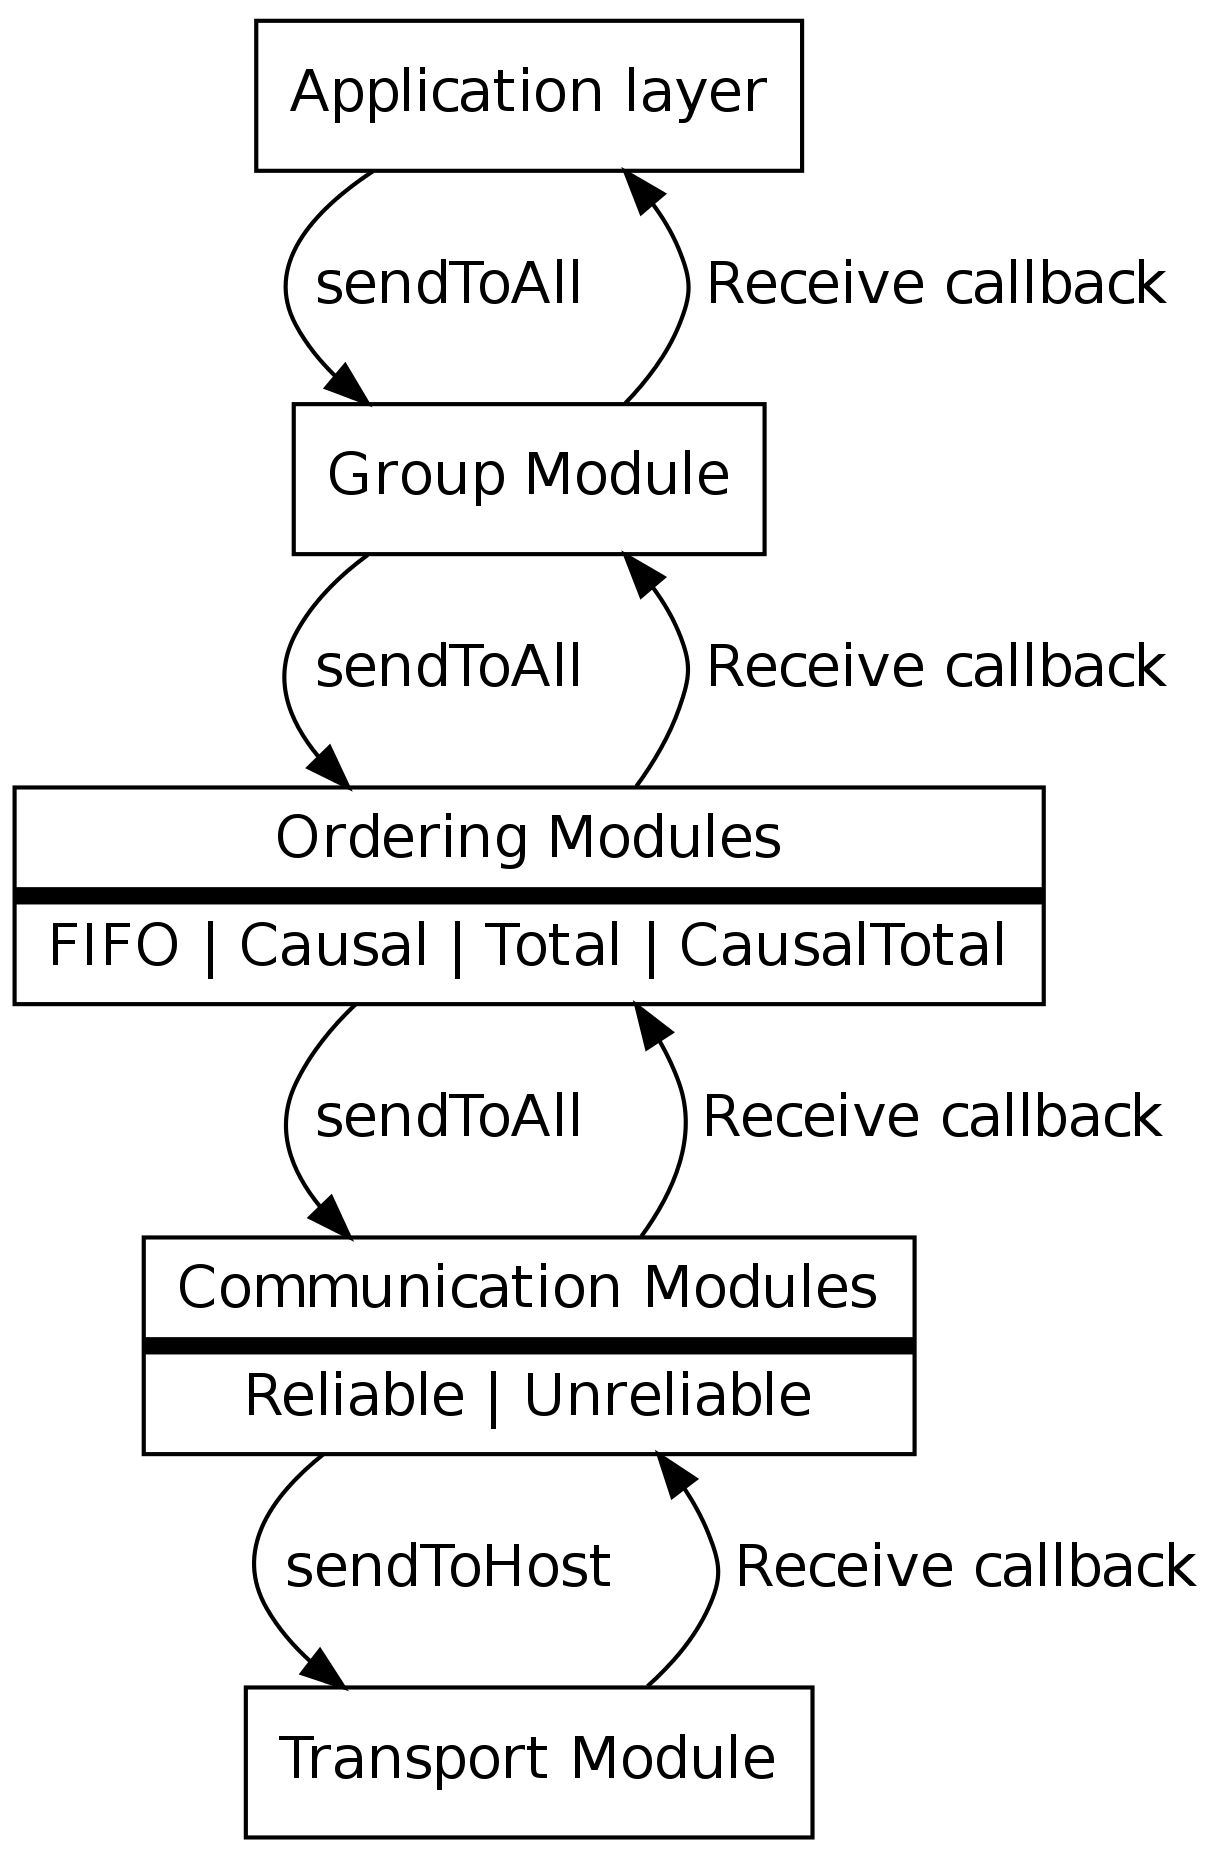
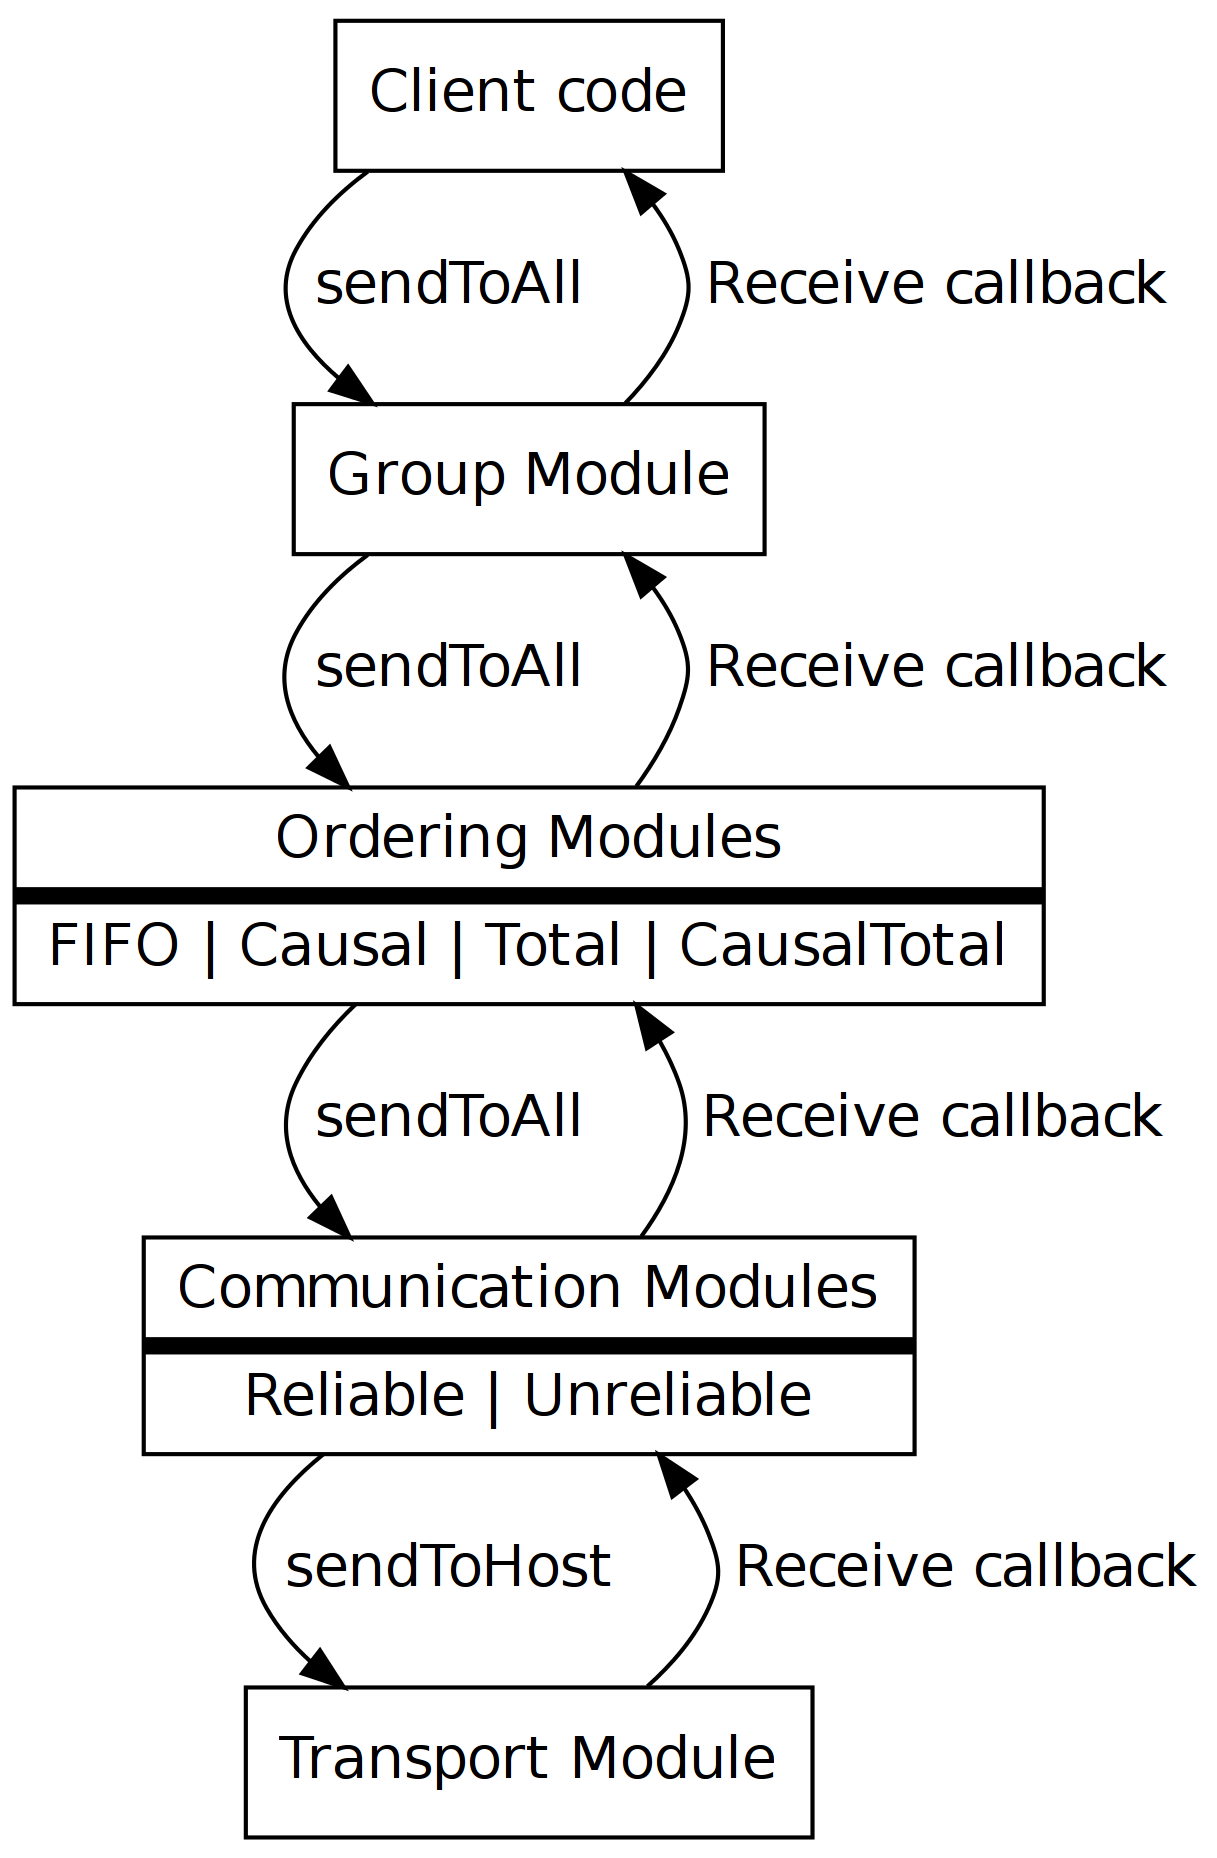
Incorporate more feedback into the report.

diff --git a/report-2/report.tex b/report-2/report.tex
@@ -88,13 +88,12 @@ be found on GitHub under the address
 
 To run the name server, use the following command:
 \begin{center}\texttt{gcom-nameserver [-p PORT]}\end{center}
-
 The name server expects an RMI registry to be running on local host on the port
 \texttt{PORT}.
 
 To run the combined test/debugging application, use the following command:
-\begin{center}\texttt{gcom-client -p PORT -c RELIABILITY -o ORDERING -l NODES NAMESERVER COMMAND}\end{center}
-
+\begin{center}\texttt{gcom-client -p PORT -c RELIABILITY -o ORDERING  -n
+    NAMESERVER -l NUMNODES COMMAND}\end{center}
 Here, \texttt{NAMESERVER} is the address of the name server in the form of a
 \texttt{name:host:port} triple, and the \texttt{COMMAND} parameter is one of
 \texttt{list}, \texttt{kill NAME} or \texttt{join NAME}. The first command lists
@@ -102,10 +101,15 @@ the available groups, the second sends a ``kill'' message to the given group,
 and the third joins a given group and starts the graphical interface. The
 \texttt{-c} option sets the reliability mode (one of \texttt{\{reliable,
   unreliable\}}), and the \texttt{-o} option sets the ordering mode (one of
-\texttt{\{unordered, fifo, causal, total, causaltotal\}}). The \texttt{-l} option
-specifies how many nodes need to have joined before operation starts, if left
-out or zero means dynamic group structure. The \texttt{-p} option has the same
-meaning as for the name server.
+\texttt{\{unordered, fifo, causal, total, causaltotal\}}). The \texttt{-l}
+option is for creating static groups -- it specifies how many nodes need to join
+the group before communication starts; leaving \texttt{-l} out or setting it to
+zero makes the group structure dynamic. The \texttt{-p} option has the same
+meaning as for the name server (port number of the RMI registry).
+
+To save the user from the hassle of having to deal with Java classpath, we also
+provide our own registry executable (\texttt{gcom-registry}) that includes all
+GCom classes inside its JAR.
 
 \section{Requirements Specification}
 
@@ -114,7 +118,7 @@ two bonus levels that give additional points. Our solution implements the Level
 2 specificaton (basic level + dynamic groups).
 
 The GCom middleware consists of three logical modules: communication, message
-ordering and group management. Additionally, we are required to implement a GUI
+ordering and group management. Additionally, we were required to implement a GUI
 test application for showcasing the features of the GCom middleware and a GUI
 debug application for demonstrating that it works correctly.
 
@@ -135,9 +139,9 @@ the textbook\cite{Textbook}). Again, the type of ordering is set at module
 initialisation time. The same callback mechanism for passing control to the next
 layer is used here.
 
-The group management module is the user-facing part of the system implemented on
-top of the previous two modules. It allows to create and remove groups, add and
-remove group members, handles the monitoring of live nodes, keeps track of
+The group management module is the client-facing part of the system implemented
+on top of the previous two modules. It allows to create and remove groups, add
+and remove group members, handles the monitoring of live nodes, keeps track of
 changes in group membership, and allows to list the names of all existing
 groups.
 
@@ -158,7 +162,7 @@ the following features:
 \item Measurement of system performance.
 \end{itemize}
 
-\section{Design}
+\section{System Architecture}
 
 We decided to implement our system in Scala and use Java RMI through Scala
 interop for communication between nodes. The choice of Scala was motivated by
@@ -168,18 +172,42 @@ option (recommended in the assignment specification) and we felt that other
 messaging solutions that we looked at either didn't provide any benefit for our
 use case (Finagle) or did all the required work for us (ZeroMQ).
 
+\begin{figure}[h]
+\centering
+\includegraphics[height=12cm]{graph2}
+\caption{Overview of the system}
+\label{fig:modules}
+\end{figure}
+
+As suggested in the assignment specification, the system is decomposed into
+three layers (see figure~\ref{fig:modules}):
+
+\begin{itemize}
+\item Communication
+\item Message ordering
+\item Group management
+\end{itemize}
+
+Each successive layer does not know anything about the layers above it - for
+example, message ordering only depends on communication, but group management
+uses both communication and message ordering. This improves modularity and
+testability.
+
+\subsection{Communication and message ordering}
+
 The communication module is just a straightforward implementation of the
 textbook algorithms for reliable and unreliable multicast\cite{Textbook}. The
-same can be said about the message ordering module: FIFO ordering will be
-implemented with logical timestamps, vector clocks will be used for the causal
-ordering, total ordering will be implemented with a sequencer node (specified as
-one of the inputs to the send function), and causal-total is just a combination
-of causal and total.
+same can be said about the message ordering module: FIFO ordering is implemented
+with logical timestamps, vector clocks are used for the causal ordering, total
+ordering is implemented with a sequencer node (specified as one of the inputs to
+the send function), and causal-total is just a combination of causal and total.
+
+\subsection{Group management}
 
 \begin{figure}[h]
 \centering
 \includegraphics[width=12cm]{graph1}
-\caption{Group management module.}
+\caption{Communication model used by the group management module.}
 \label{fig:group}
 \end{figure}
 
@@ -187,30 +215,46 @@ The group management module has a slightly more complicated design. Each node is
 identified by a (host, port number, name) triple. A group is identified by its
 name; names are globally unique, which is enforced by the name server that also
 associates an ID of a coordinator node with each group name. The central server
-is used a hub through each new nodes can discover and join existing groups.
+is used as a hub through which new nodes can discover and join existing
+groups. This model is illustrated in figure~\ref{fig:group}.
 
-The coordinator node in each group serves as a message sequencer and gateway
-through which new nodes join the group. The process of joining a group is
-illustrated in figure~\ref{fig:group}. A node first contacts the central server,
-which knows the names of all groups and all coordinator nodes. When a node has
-chosen which group it wants to join, it contacts the coordinator for that group
-and receives the list of all group members. The group members then synchronise
-its view of group membership and the node is considered admitted.
+The coordinator node in each group serves as a gateway through which new nodes
+join the group. To join a group, a node first contacts the central server, which
+knows the names of all groups and all coordinator nodes. When a node has chosen
+which group it wants to join, it contacts the coordinator for that group and
+receives the list of all group members. The group members then synchronise its
+view of group membership and the node is considered admitted.
 
-If the coordinator node dies or leaves the group, a new coordinator is elected,
-and all group members and the central server are notified. The 2-phase commit
-protocol is used to ensure that all nodes have a consistent view of group
-membership, group coordinator and the value of the total ordering
+The 2-phase commit protocol is used to ensure that all nodes have a consistent
+view of group membership, group coordinator and the value of the total ordering
 counter. Originally, we planned to use Paxos, but that turned out to be too
 onerous to implement, and 2PC was fine for our purposes (fail-stop failure
 model). Since the focus of this assignment is on multicast and message ordering,
 we feel fine with a simplified solution.
 
+The 2PC algorithm provides us with a relatively simple and straightforward way
+to implement consistent shared state, which enables us to program the group
+management module in a replicated state machine style (all nodes start in the
+same initial state and agree on successive transitions). This simplifies
+debugging and reasoning about the system.
+
+If the coordinator node dies or leaves the group, a new coordinator is elected,
+and all group members and the central server are notified. A deterministic
+election algorithm is used -- the new leader is just the node with the lowest ID
+number (that is, the oldest node in the group). This ensures that when two
+different nodes simultaneously decide to elect a new coordinator, the same
+candidate is chosen by both nodes. Thus, coordinator election can be implemented
+simply as updating a single field of the shared state record, since the
+immediately following updates of that field by other nodes will be idempotent.
+
 In case a group gets partitioned, each partition will elect a new coordinator
-and will continue to function independently. The ones that can't contact the
-central server will know that they are the ones ``left behind''. They can choose
-to either shut down, continue to communicate among themselves or wait for the
-central server to become available and try to rejoin the group.
+and continue to function independently. The ones that can't contact the central
+server will know that they are the ones ``left behind''. They can choose to
+either shut down, continue to communicate among themselves or wait for the
+central server to become available and try to rejoin the group (currently, only
+the first option is implemented).
+
+\subsection{Scalability}
 
 The system is designed to scale fairly well, since at no point there is a need
 to communicate with or store the names of all nodes in the system. Each node
@@ -219,29 +263,28 @@ server communicates only with the coordinator nodes. The central server is
 obviously a single point of failure, but the groups don't depend on it to
 function and we believe that a central group catalog is needed in any case so
 that new nodes can discover what groups exist in the system.
-\pagebreak
 
-\subsection{Modules}
-The Group module of GCom is exposed to the Application layer, but only the
-methods defined in the Communicator interface. On its creation the application
-layer provides the appropriate GCom settings as well as a callback to execute
+\subsection{Communication between components}
+
+The group management module is exposed to the client, but only through the
+methods defined in the Communicator interface (see
+\texttt{gcom/src/GCom.scala}). On the creation of a Communicator object the
+client provides the appropriate GCom settings as well as a callback to execute
 when a message arrives.
 
-Each layer in our system hooks into the lower layer by providing a callback
-to call when a message is ready for the next level. To send a message the
-application layer calls the sendToAll method on the group module which then
-passes the message down in the stack. Each module adds the specific information
-needed as the message passes through. The different layers and modules can
-be seen in figure \ref{fig:modules}
+Each layer in our system hooks into the lower layer by providing a callback to
+call when a message is ready for the next level. To send a message the
+application layer calls the \texttt{sendToAll} method of the Communicator object
+which then passes the message down to lower layers. Each module adds the
+specific information needed as the message passes through. This is illustrated
+in figure~\ref{fig:modules}
 
-\begin{figure}[h]
-\centering
-\includegraphics[height=12cm]{graph2}
-\caption{Overview of the system}
-\label{fig:modules}
-\end{figure}
+When a layer needs to get some information from a layer above, it invokes a
+callback that it was passed at creation time. For example, this is used by the
+total ordering module to increment the value of the shared counter (which is
+managed by the group management layer).
 
-\subsection{Debugger}
+\subsection{Implementation of the debugger}
 
 The graphical debugging is implemented by using the Publisher/Reactor model in
 the Scala Swing wrapper. Each component extends the Publisher trait so that the
@@ -249,11 +292,27 @@ graphical user interface can listen to that component. When the components have
 something new to push to the interface they publish an event containing that
 specific information.
 
+Communication in the other direction (from the interface to the GCom code --
+e.g., when the user presses a button) is implemented by just calling the
+appropriate methods of the corresponding GCom component from the GUI code.
+
 \section{Limitations}
 
-The name server does not periodically check that group leaders are
-still alive. This can lead to dead groups lingering in the system if a group
-crashes and no new leader is chosen by the group to update the status.
+The system is designed to be scalable - we deliberately avoided algorithms that
+are $O(g \times \Sigma n_g)$ in space and/or time (here, $g$ is the number of
+groups and $n_g$ is the number of members in group $g$). The dependency is
+either on $g$ or on $n_g$, but never on both.
+
+The name server does not do a periodic check that group leaders are still
+alive. If a whole group suddenly crashes or becomes unavailable, a stale
+reference to its group leader will be preserved by the name server.
+
+If a network gets partitioned, a partition that can't reach the name server but
+includes the old leader will continue to function, while the other partition
+will elect a new leader and update the name server with this information - thus,
+the group will be split in two. This can be fixed by checking whether the name
+server is still reachable when a group leader discovers that some nodes in the
+group have become unavailable.
 
 Messages sent out of order after a node has joined the network can be discarded
 if the first message received by the node is not the first message sent. The
